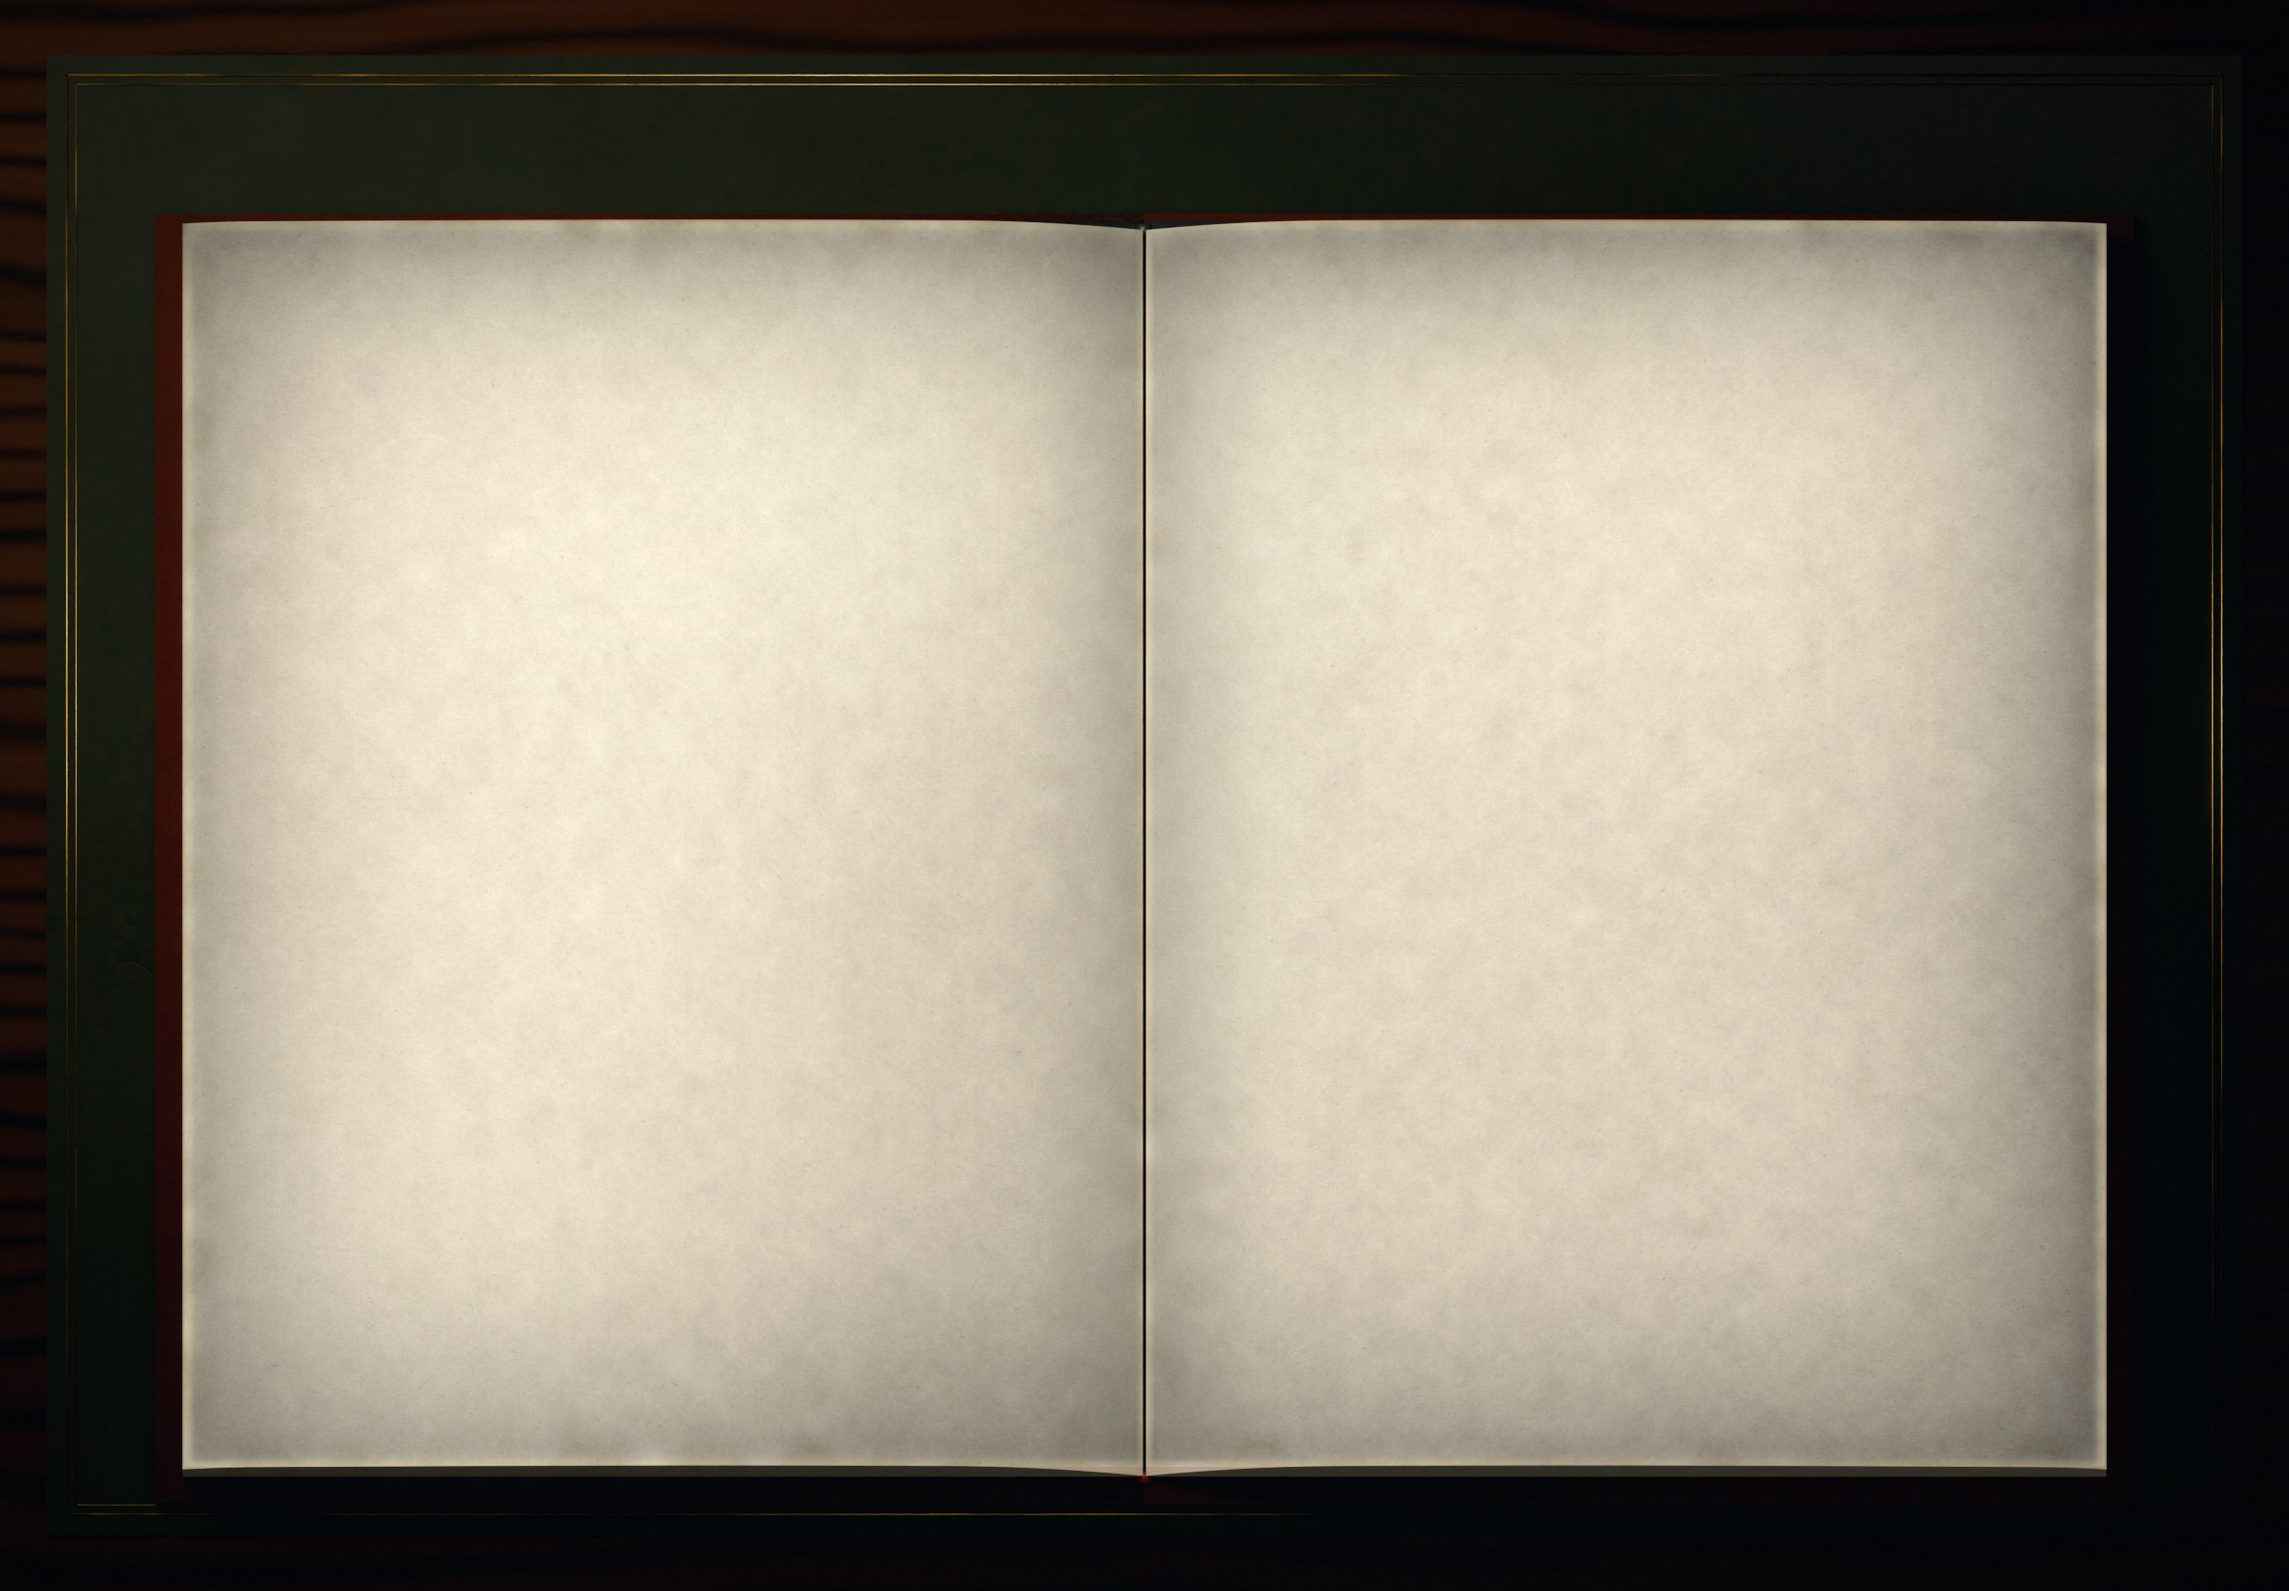
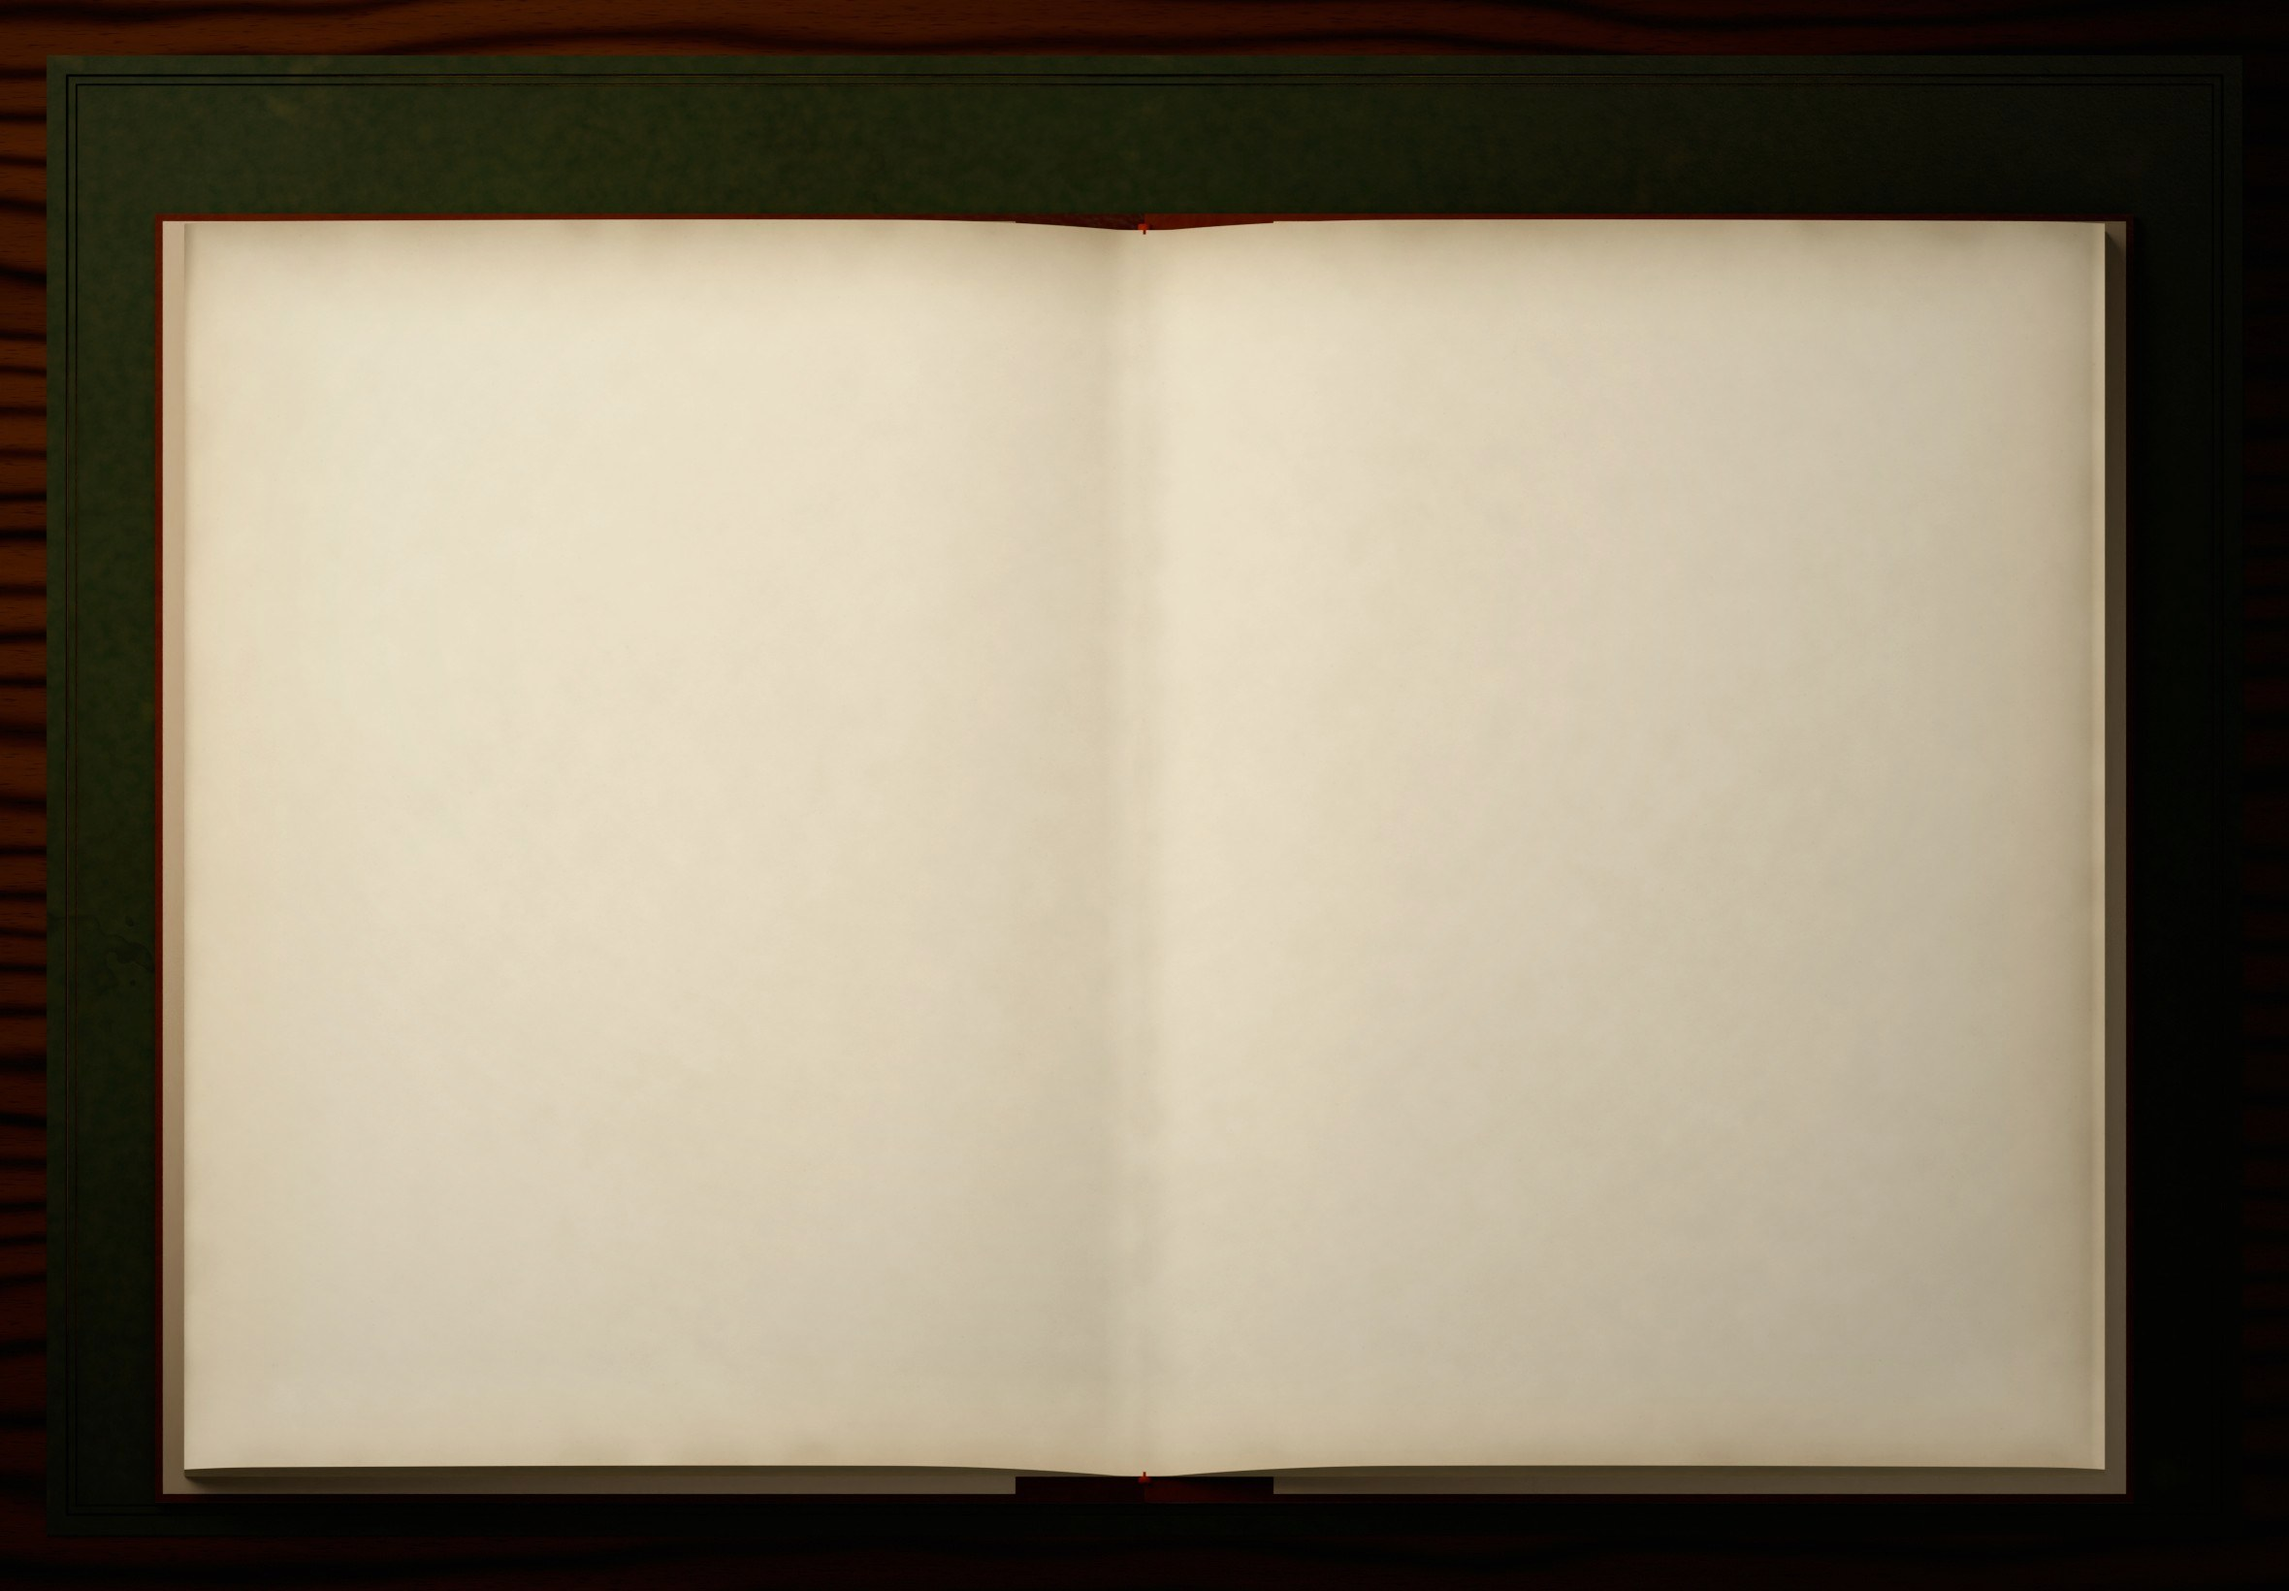
Re-rendered desk and catalogue: soft gutter, page-block edges, calmer parchment; crisp catalogue with matte labels
Desk (A4): no hard gutter line, deeper page curve, lower lamp, marbled endpapers, page edges at the fore-edge, parchment with gentler mottling and foxing only at the edges. Catalogue (A5): sharper depth of field, matte label cards instead of glowing blobs, finer oak grain, and a 2x image for zooming. The spread's details column drops the duplicate shelf location.

diff --git a/index.html b/index.html
@@ -863,6 +863,8 @@ body.compact .qpill~.chips,body.compact .chips:has(~.arrange-banner){opacity:0}
 body.compact .qpill~.chips>*,body.compact .chips:has(~.arrange-banner)>*{pointer-events:none}
 body.compact .chips>*{transition:opacity .2s}
 body.compact .arrange-banner span{white-space:nowrap}
+/* A4 re-render has its own soft gutter: the E19 stop-gap shadow only needs to be a whisper now */
+.bookview::after{opacity:.5}
 
 </style>
 </head>

diff --git a/sw.js b/sw.js
@@ -1,7 +1,7 @@
 /* The Library — service worker.
  * Bump VERSION on every deploy that changes any precached file, so clients pick up the new shell.
  */
-const VERSION = 'lib-v4';
+const VERSION = 'lib-v5';
 
 const SHELL_CACHE = 'shell-' + VERSION;
 const COVERS_CACHE = 'covers';          // shared across versions, capped below
